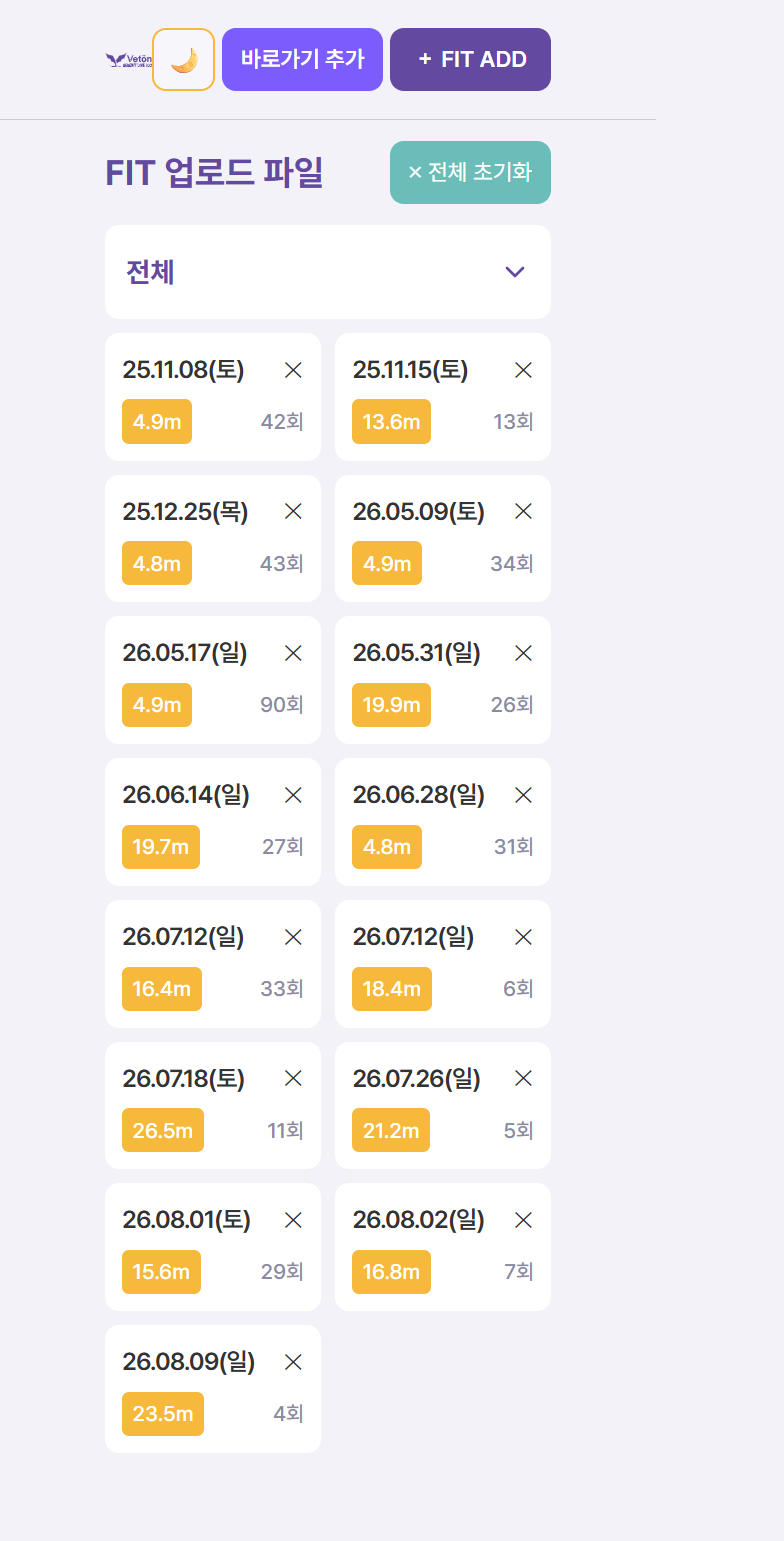
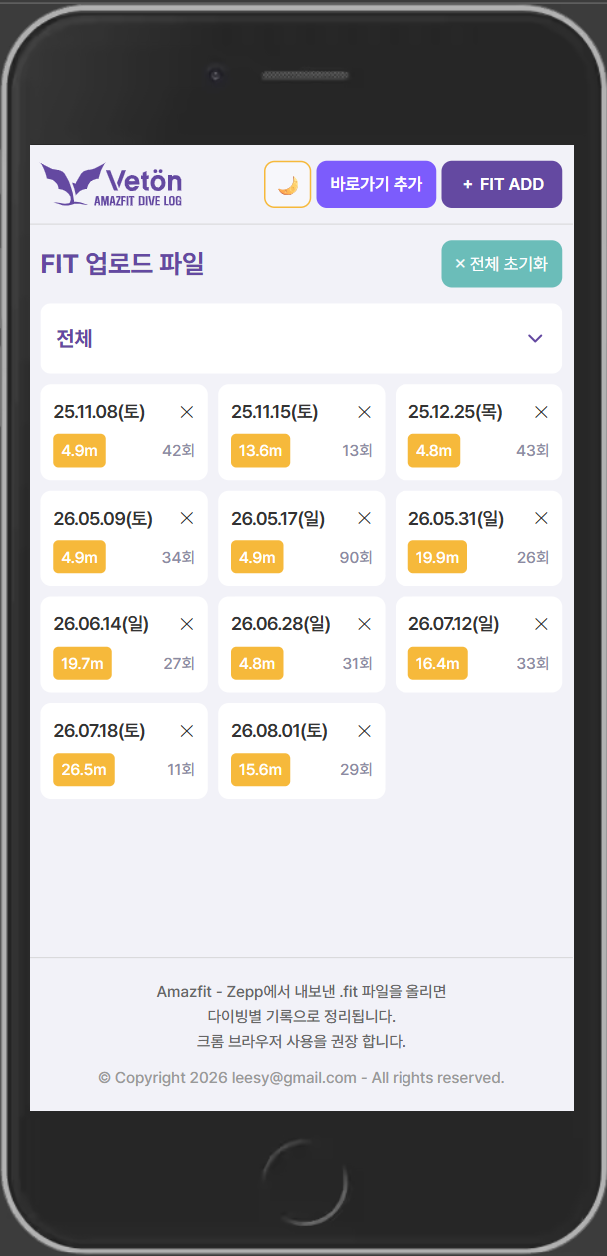
common.css: install-btn에 show 클래스 스타일 추가
- .install-btn.show에 display: flex를 적용하여 버튼 표시 처리
- 불필요한 중복된 display: none 선언 제거
- guide-step-8.png 파일 업데이트 (관련 변경 사항은 언급 없음)

diff --git a/css/common.css b/css/common.css
@@ -9,7 +9,7 @@
     label {font-weight: 600; background: var(--ac-01); border: none; color: #fff; display: flex; align-items: center; justify-content: center; gap: 4px; height: 36px; width: 92px; border-radius: var(--radius); cursor: pointer; font-size: 13px;}
     label input {display: none;}
     label:hover {box-shadow: 0 8px 18px -8px rgba(124,92,252,.6);}
-    .install-btn {display: none; align-items: center; justify-content: center; gap: 4px; height: 36px; width: 92px; border-radius: var(--radius); background: var(--purple); border: 1.5px solid var(--purple); color: #fff; font-size: 13px; font-weight: 600; cursor: pointer;
+    .install-btn {display: none; align-items: center; justify-content: center; gap: 4px; height: 36px; width: 92px; border-radius: var(--radius); background: var(--purple); border: 1.5px solid var(--purple); color: #fff; font-size: 13px; font-weight: 600; cursor: pointer; display: none;
       &.show {display: flex;}
     }
     .theme-toggle {display: flex; align-items: center; justify-content: center; height: 36px; width: 36px; border-radius: var(--radius); background: var(--surface-2); border: 1.5px solid #f6b93b; font-size: 16px; cursor: pointer;
